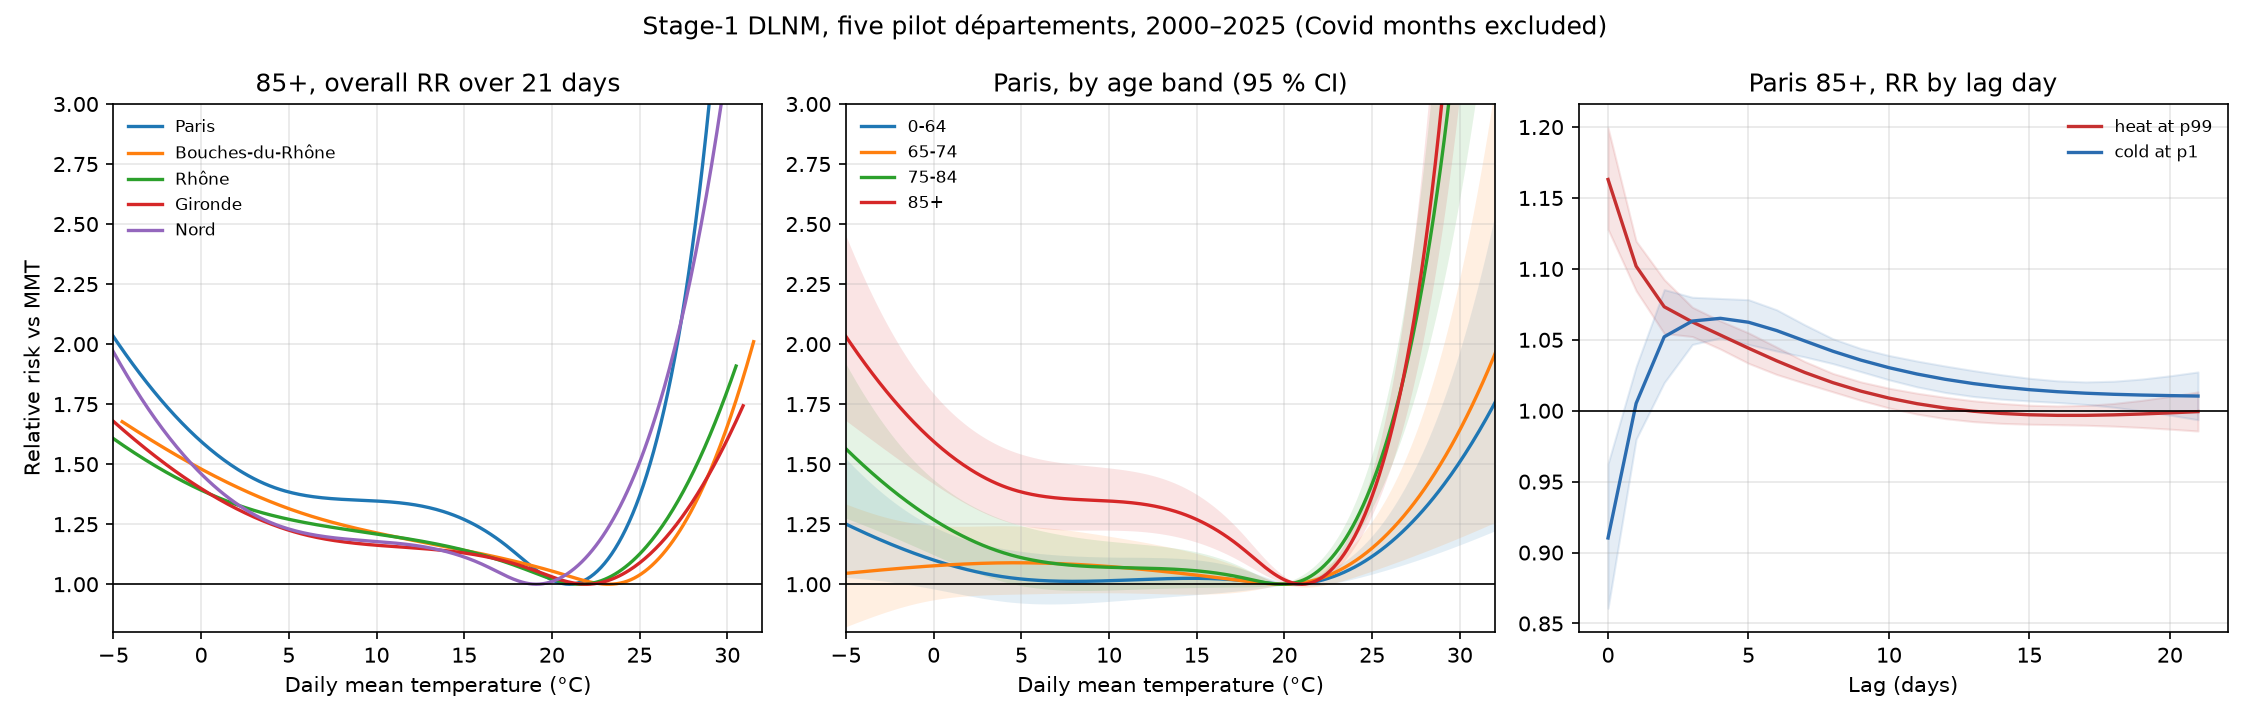
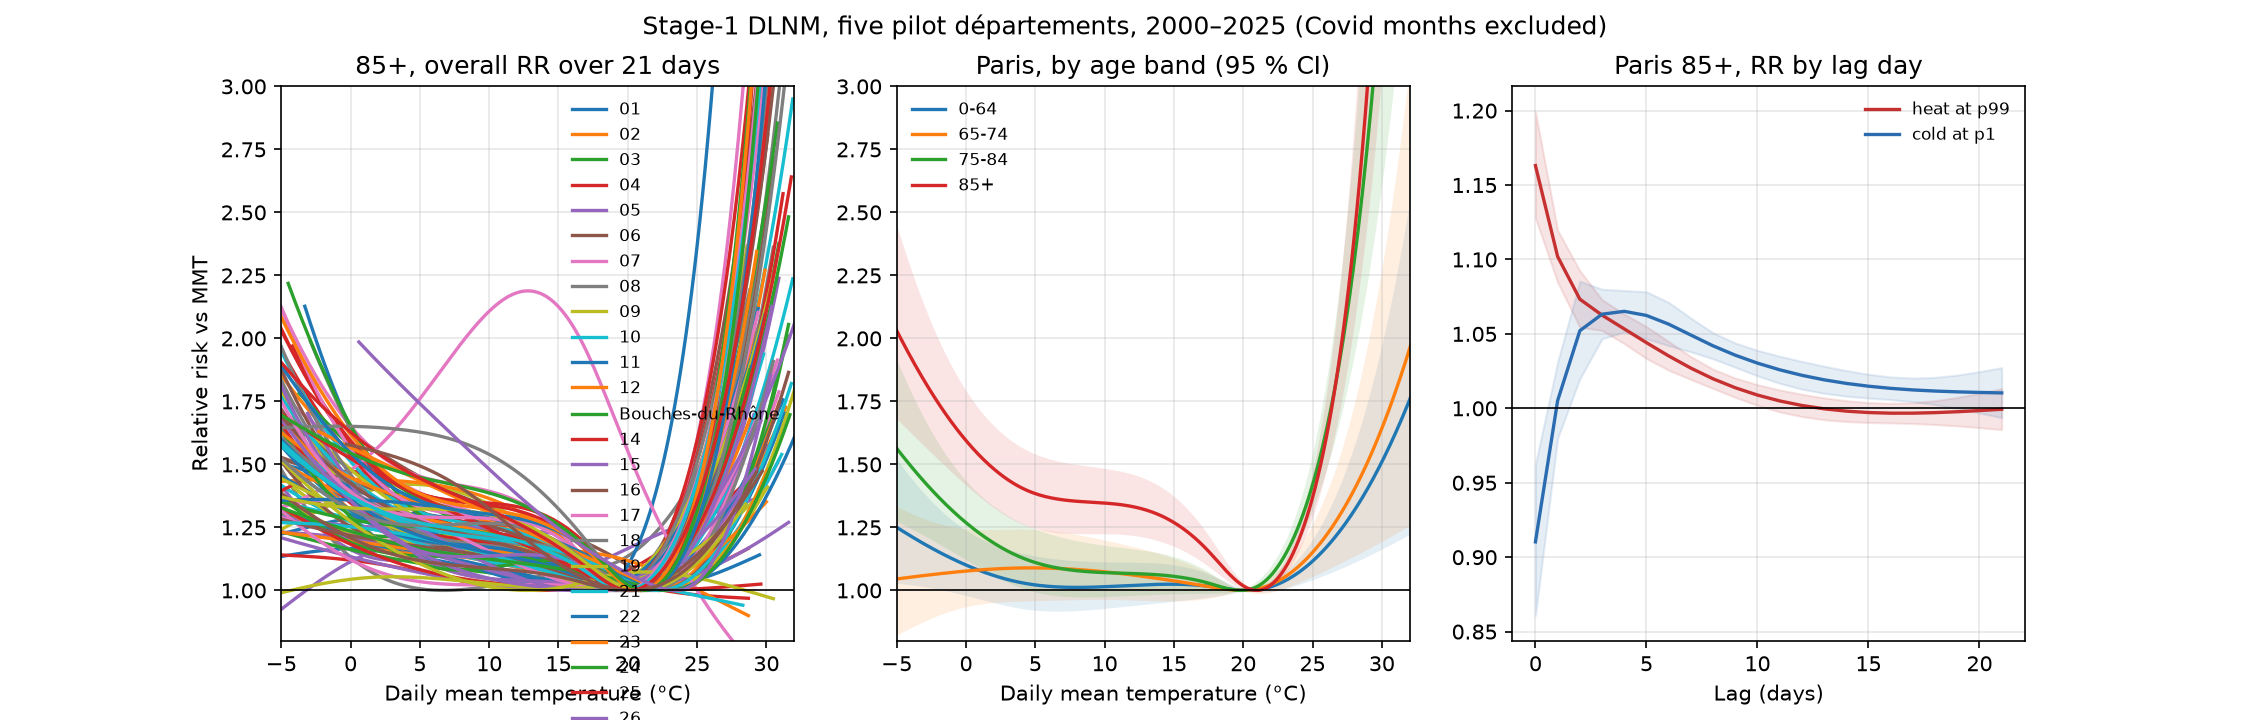
Stage-1 DLNM on all 96 départements; stage-2 mixmeta pooling, BLUPs, heterogeneity

diff --git a/src/frtm/models/dlnm.py b/src/frtm/models/dlnm.py
@@ -12,6 +12,7 @@ import matplotlib.pyplot as plt
 import polars as pl
 
 R_SCRIPT = Path("src/frtm/r/dlnm_stage1.R")
+R2_SCRIPT = Path("src/frtm/r/dlnm_stage2.R")
 RES = Path("data/results/dlnm")
 FIG = Path("docs/figures")
 NAMES = {"75": "Paris", "13": "Bouches-du-Rhône", "69": "Rhône", "33": "Gironde", "59": "Nord"}
@@ -50,11 +51,30 @@ def plot() -> None:
     print(summ.with_columns(pl.col("dept").replace(NAMES)).select("dept", "age_band", "mmt", "mmt_pct", "p1", "rr_p1", "p99", "rr_p99", "rr_p99_lo", "rr_p99_hi", "phi"))
 
 
+def plot_pooled() -> None:
+    pooled = pl.read_csv(RES / "pooled_curves.csv")
+    dep = pl.read_csv(RES / "dept_blup_summary.csv", schema_overrides={"dept": pl.Utf8})
+    fig, axes = plt.subplots(1, 2, figsize=(13, 5))
+    for band, g in pooled.group_by("age_band", maintain_order=True):
+        axes[0].plot(g["pct"], g["rr"], lw=1.8, label=band[0]); axes[0].fill_between(g["pct"], g["lo"], g["hi"], alpha=0.12)
+    axes[0].axhline(1, color="black", lw=0.8); axes[0].set_xlabel("Temperature percentile (département-specific)"); axes[0].set_ylabel("Relative risk vs MMT")
+    axes[0].set_title("Pooled exposure–response, metropolitan France"); axes[0].legend(title="Age band", frameon=False); axes[0].grid(alpha=0.3); axes[0].set_ylim(0.9, 2.5)
+    d85 = dep.filter(pl.col("age_band") == "85+").sort("rr_p99")
+    axes[1].errorbar(d85["rr_p99"], range(d85.height), xerr=[d85["rr_p99"] - d85["rr_p99_lo"], d85["rr_p99_hi"] - d85["rr_p99"]], fmt="o", ms=3, color="#c53030", ecolor="#feb2b2", lw=1)
+    axes[1].set_yticks(range(d85.height)); axes[1].set_yticklabels(d85["dept"], fontsize=5)
+    axes[1].axvline(1, color="black", lw=0.8); axes[1].set_xlabel("RR at the 99th percentile, 85+, BLUP"); axes[1].set_title("Heat sensitivity by département"); axes[1].grid(alpha=0.3, axis="x")
+    fig.tight_layout(); fig.savefig(FIG / "dlnm_pooled_and_departements.png", dpi=150); plt.close(fig)
+    pl.Config.set_tbl_rows(20)
+    print(pl.read_csv(RES / "heterogeneity.csv"))
+    print(d85.select("dept", "mmt", "mmt_pct", "rr_p1", "rr_p99").tail(10))
+
+
 def main() -> None:
-    pilots = sys.argv[1:] or ["75", "13", "69", "33", "59"]
+    pilots = sys.argv[1:]
     run_r(pilots)
     plot()
-
+    subprocess.run(["Rscript", str(R2_SCRIPT)], check=True)
+    plot_pooled()
 
 if __name__ == "__main__":
     main()
